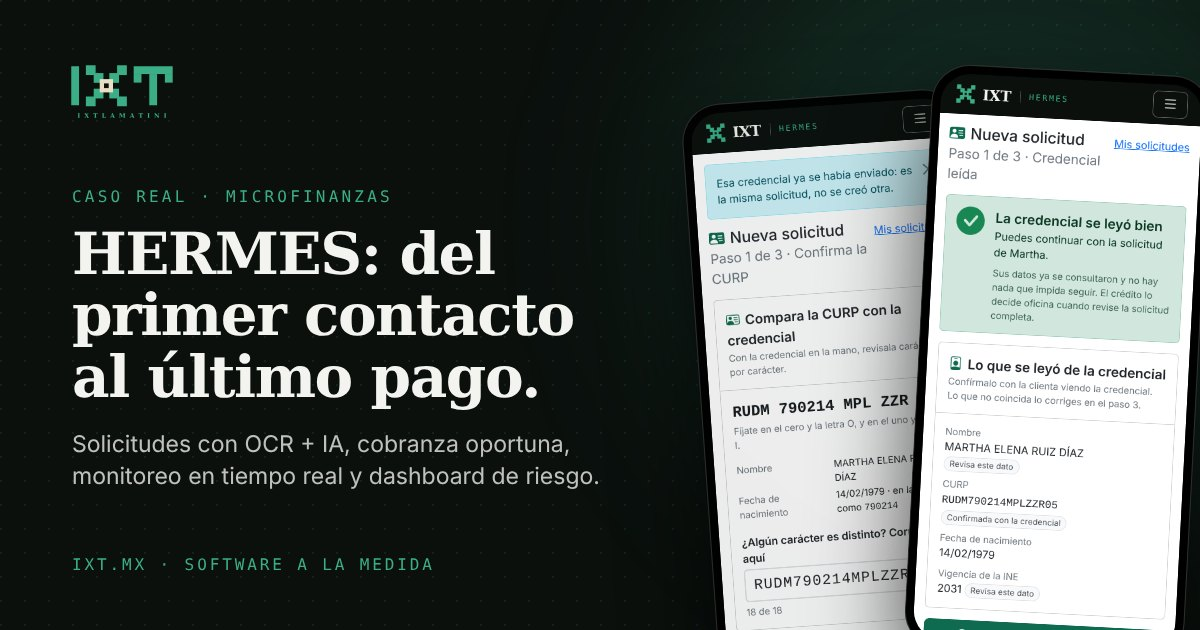
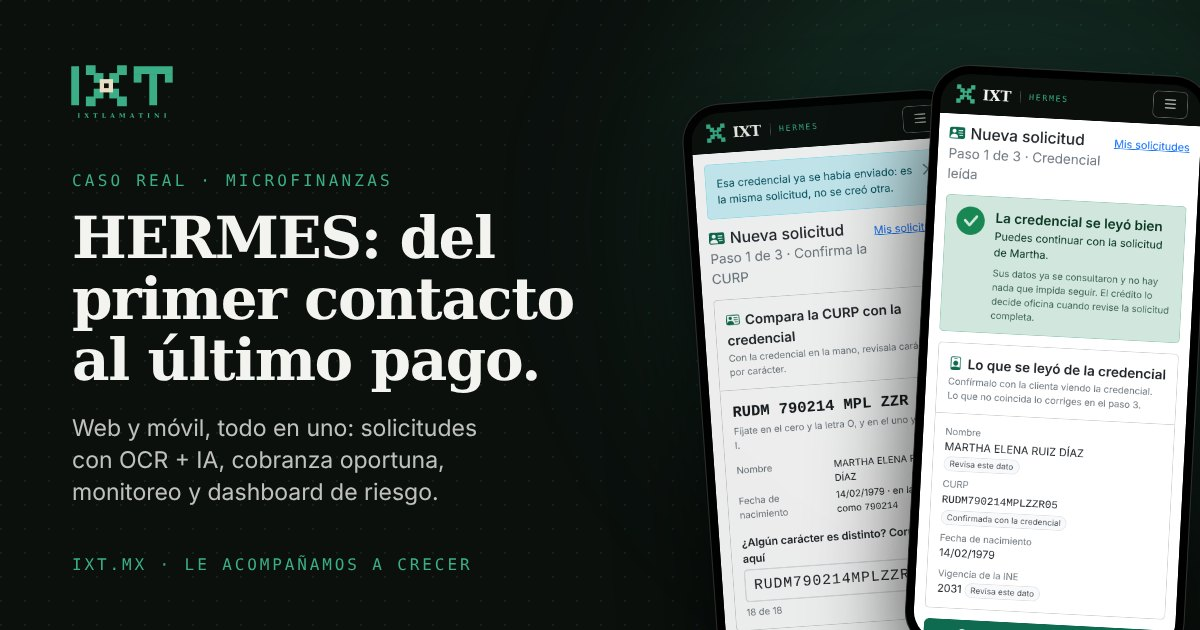
feat: warm "Nosotros" with the meaning of our name, no consultancy
- Home share preview redesigned in warm tones: the meaning of the name
  (Ixtlamatini, "el que sabe con los ojos") first, then values and
  then what we do; default title and description no longer say
  "consultoría" and stress that we accompany clients, never leave them
- New "Nosotros" section right after the hero: the name explained
  (ixtli + tlamatini) and our values; goals move to the end; menu and
  footer start with "Nosotros"
- HERMES and our software described as multiplatform: web and mobile,
  all in one (case hero, ficha, modules, home teaser, Tecnológica and
  the case share preview)

Claude-Session: https://claude.ai/code/session_0144WhNz7j2rH3AaMeMhB6Be

Changed region(s): [[0.0617, 0.2714, 0.4933, 0.8143], [0.1542, 0.8746, 0.4008, 0.9048], [0.4008, 0.3317, 0.4317, 0.3619]]

diff --git a/mockups/og/inicio.html b/mockups/og/inicio.html
@@ -19,116 +19,134 @@
       body {
         margin: 0;
       }
+      /* Tonos cálidos de la marca: hueso que se calienta hacia cal, con la trama de puntos en jade. */
       body {
         width: 1200px;
         height: 630px;
         overflow: hidden;
         position: relative;
-        background-color: #0b100d;
-        background-image: radial-gradient(circle at 1px 1px, rgba(59, 174, 136, 0.12) 1px, transparent 0);
-        background-size: 24px 24px;
+        background-color: #f3f4ef;
+        background-image: radial-gradient(circle at 1px 1px, rgba(15, 107, 79, 0.1) 1px, transparent 0),
+          linear-gradient(120deg, #f3f4ef 0%, #f1ecdf 55%, #eadfc4 100%);
+        background-size: 24px 24px, auto;
         font-family: 'Inter Variable', sans-serif;
+        color: #0b100d;
       }
       .brillo {
         position: absolute;
-        right: -120px;
-        top: -100px;
-        width: 640px;
-        height: 640px;
+        right: 40px;
+        top: 70px;
+        width: 480px;
+        height: 480px;
         border-radius: 50%;
-        background: rgba(59, 174, 136, 0.16);
-        filter: blur(90px);
+        background: rgba(234, 223, 196, 0.95);
+        filter: blur(60px);
       }
       .texto {
         position: absolute;
         left: 72px;
-        top: 60px;
-        bottom: 56px;
-        width: 570px;
+        top: 54px;
+        bottom: 50px;
+        width: 690px;
         display: flex;
         flex-direction: column;
         justify-content: space-between;
       }
       .logo svg {
         display: block;
-        height: 64px;
+        height: 58px;
         width: auto;
-        margin-left: -7px;
+        margin-left: -6px;
       }
       .eyebrow {
         font-family: 'DejaVu Sans Mono', monospace;
         font-size: 16px;
         letter-spacing: 0.2em;
         text-transform: uppercase;
-        color: #3bae88;
-        margin: 0 0 18px;
+        color: #0f6b4f;
+        margin: 0 0 14px;
       }
       h1 {
         font-family: 'DejaVu Serif', serif;
         font-weight: 700;
-        font-size: 58px;
-        line-height: 1.06;
+        font-size: 62px;
+        line-height: 1.04;
         letter-spacing: -0.025em;
-        color: #f3f4ef;
         margin: 0;
+        text-wrap: balance;
       }
       .sub {
-        font-size: 23px;
+        font-size: 24px;
         line-height: 1.4;
-        color: rgba(243, 244, 239, 0.78);
-        margin: 20px 0 0;
+        color: rgba(11, 16, 13, 0.78);
+        margin: 18px 0 0;
+        text-wrap: balance;
+      }
+      .valores {
+        display: flex;
+        flex-wrap: wrap;
+        gap: 8px;
+        margin: 0;
+        padding: 0;
+        list-style: none;
+      }
+      .valores li {
+        font-size: 16px;
+        font-weight: 600;
+        color: #0f6b4f;
+        background: rgba(255, 255, 255, 0.7);
+        border: 1px solid rgba(15, 107, 79, 0.25);
+        border-radius: 999px;
+        padding: 6px 14px;
+      }
+      .hacemos {
+        font-size: 21px;
+        line-height: 1.4;
+        font-weight: 600;
+        margin: 16px 0 0;
+        text-wrap: balance;
       }
       .pie {
         font-family: 'DejaVu Sans Mono', monospace;
-        font-size: 16px;
+        font-size: 15px;
         letter-spacing: 0.18em;
         text-transform: uppercase;
-        color: #3bae88;
+        color: #0f6b4f;
       }
-    </style>
-    <style>
-      .ventana {
+      .marca {
         position: absolute;
-        left: 690px;
-        top: 112px;
-        width: 780px;
-        border-radius: 14px;
-        overflow: hidden;
-        border: 1px solid rgba(255, 255, 255, 0.12);
-        background: #141916;
-        box-shadow: 0 40px 90px rgba(0, 0, 0, 0.65);
-      }
-      .barra {
-        height: 34px;
-        display: flex;
-        align-items: center;
-        gap: 7px;
-        padding: 0 14px;
-        border-bottom: 1px solid rgba(255, 255, 255, 0.1);
-      }
-      .barra span {
-        width: 10px;
-        height: 10px;
-        border-radius: 50%;
-        background: rgba(255, 255, 255, 0.16);
-      }
-      .ventana img {
-        display: block;
-        width: 100%;
+        right: 100px;
+        top: 165px;
+        width: 280px;
+        height: 280px;
       }
     </style>
   </head>
   <body>
     <div class="brillo"></div>
-    <div class="ventana">
-      <div class="barra"><span></span><span></span><span></span></div>
-      <img src="../../src/assets/hermes/dashboard.png" alt="" />
-    </div>
+    <!-- Ícono de IXT: el cuadro del centro es el ojo de ixtli. -->
+    <svg class="marca" xmlns="http://www.w3.org/2000/svg" viewBox="32.5 -7.5 115 115" aria-hidden="true">
+      <g fill="#0F6B4F">
+        <path d="M37.5-2.5h25v25h-25zM117.5-2.5h25v25h-25zM57.5 17.5h25v25h-25zM97.5 17.5h25v25h-25zM57.5 57.5h25v25h-25zM97.5 57.5h25v25h-25zM37.5 77.5h25v25h-25zM117.5 77.5h25v25h-25z" />
+      </g>
+      <rect x="73" y="33" width="34" height="34" fill="#0B100D" />
+      <rect x="84" y="44" width="12" height="12" fill="#EADFC4" />
+    </svg>
     <div class="texto">
-      <div class="logo"><svg xmlns="http://www.w3.org/2000/svg" viewBox="-16 -16 292 164" width="292" height="164"><g fill="#3BAE88"><rect x="0" y="0" width="20" height="100"/><rect x="37.5" y="-2.5" width="25" height="25"/><rect x="117.5" y="-2.5" width="25" height="25"/><rect x="57.5" y="17.5" width="25" height="25"/><rect x="97.5" y="17.5" width="25" height="25"/><rect x="57.5" y="57.5" width="25" height="25"/><rect x="97.5" y="57.5" width="25" height="25"/><rect x="37.5" y="77.5" width="25" height="25"/><rect x="117.5" y="77.5" width="25" height="25"/><rect x="160" y="0" width="100" height="20"/><rect x="160" y="20" width="20" height="22"/><rect x="240" y="20" width="20" height="22"/><rect x="200" y="20" width="20" height="80"/></g><rect x="73" y="33" width="34" height="34" fill="#EADFC4"/><rect x="84" y="44" width="12" height="12" fill="#0B100D"/><g fill="#3BAE88"><path transform="translate(15.672 132.000) scale(0.007754 -0.007754)" d="M96 0V121H287V1372H96V1493H864V1372H672V121H864V0Z"/><path transform="translate(33.350 132.000) scale(0.007754 -0.007754)" d="M694 575 383 121H567V0H37V121H221L614 692L147 1372H10V1493H752V1372H588L877 952L1163 1372H989V1493H1509V1372H1325L956 836L1446 121H1587V0H842V121H1008Z"/><path transform="translate(55.921 132.000) scale(0.007754 -0.007754)" d="M371 0V121H569V1356H160V1120H23V1493H1503V1120H1368V1356H956V121H1155V0Z"/><path transform="translate(77.988 132.000) scale(0.007754 -0.007754)" d="M96 0V121H287V1372H96V1493H864V1372H672V137H1260V373H1395V0Z"/><path transform="translate(99.404 132.000) scale(0.007754 -0.007754)" d="M-16 0V121H106L668 1493H907L1470 121H1612V0H913V121H1059L936 426H375L250 121H428V0ZM424 547H887L657 1118Z"/><path transform="translate(121.975 132.000) scale(0.007754 -0.007754)" d="M86 0V121H276V1372H86V1493H702L1128 535L1556 1493H2171V1372H1980V121H2171V0H1403V121H1593V1260L1130 219H877L416 1260V121H606V0Z"/><path transform="translate(149.803 132.000) scale(0.007754 -0.007754)" d="M-16 0V121H106L668 1493H907L1470 121H1612V0H913V121H1059L936 426H375L250 121H428V0ZM424 547H887L657 1118Z"/><path transform="translate(172.374 132.000) scale(0.007754 -0.007754)" d="M371 0V121H569V1356H160V1120H23V1493H1503V1120H1368V1356H956V121H1155V0Z"/><path transform="translate(194.441 132.000) scale(0.007754 -0.007754)" d="M96 0V121H287V1372H96V1493H864V1372H672V121H864V0Z"/><path transform="translate(212.119 132.000) scale(0.007754 -0.007754)" d="M90 0V121H281V1372H90V1493H557L1458 436V1372H1268V1493H1790V1372H1599V0H1337L422 1079V121H612V0Z"/><path transform="translate(236.884 132.000) scale(0.007754 -0.007754)" d="M96 0V121H287V1372H96V1493H864V1372H672V121H864V0Z"/></g></svg></div>
+      <div class="logo"><svg xmlns="http://www.w3.org/2000/svg" viewBox="-16 -16 292 164" role="img" aria-label="IXT · Ixtlamatini"><g fill="#0F6B4F"><rect x="0" y="0" width="20" height="100"/><rect x="37.5" y="-2.5" width="25" height="25"/><rect x="117.5" y="-2.5" width="25" height="25"/><rect x="57.5" y="17.5" width="25" height="25"/><rect x="97.5" y="17.5" width="25" height="25"/><rect x="57.5" y="57.5" width="25" height="25"/><rect x="97.5" y="57.5" width="25" height="25"/><rect x="37.5" y="77.5" width="25" height="25"/><rect x="117.5" y="77.5" width="25" height="25"/><rect x="160" y="0" width="100" height="20"/><rect x="160" y="20" width="20" height="22"/><rect x="240" y="20" width="20" height="22"/><rect x="200" y="20" width="20" height="80"/></g><rect x="73" y="33" width="34" height="34" fill="#0B100D"/><rect x="84" y="44" width="12" height="12" fill="#F3F4EF"/><g fill="#0F6B4F"><path transform="translate(15.672 132.000) scale(0.007754 -0.007754)" d="M96 0V121H287V1372H96V1493H864V1372H672V121H864V0Z"/><path transform="translate(33.350 132.000) scale(0.007754 -0.007754)" d="M694 575 383 121H567V0H37V121H221L614 692L147 1372H10V1493H752V1372H588L877 952L1163 1372H989V1493H1509V1372H1325L956 836L1446 121H1587V0H842V121H1008Z"/><path transform="translate(55.921 132.000) scale(0.007754 -0.007754)" d="M371 0V121H569V1356H160V1120H23V1493H1503V1120H1368V1356H956V121H1155V0Z"/><path transform="translate(77.988 132.000) scale(0.007754 -0.007754)" d="M96 0V121H287V1372H96V1493H864V1372H672V137H1260V373H1395V0Z"/><path transform="translate(99.404 132.000) scale(0.007754 -0.007754)" d="M-16 0V121H106L668 1493H907L1470 121H1612V0H913V121H1059L936 426H375L250 121H428V0ZM424 547H887L657 1118Z"/><path transform="translate(121.975 132.000) scale(0.007754 -0.007754)" d="M86 0V121H276V1372H86V1493H702L1128 535L1556 1493H2171V1372H1980V121H2171V0H1403V121H1593V1260L1130 219H877L416 1260V121H606V0Z"/><path transform="translate(149.803 132.000) scale(0.007754 -0.007754)" d="M-16 0V121H106L668 1493H907L1470 121H1612V0H913V121H1059L936 426H375L250 121H428V0ZM424 547H887L657 1118Z"/><path transform="translate(172.374 132.000) scale(0.007754 -0.007754)" d="M371 0V121H569V1356H160V1120H23V1493H1503V1120H1368V1356H956V121H1155V0Z"/><path transform="translate(194.441 132.000) scale(0.007754 -0.007754)" d="M96 0V121H287V1372H96V1493H864V1372H672V121H864V0Z"/><path transform="translate(212.119 132.000) scale(0.007754 -0.007754)" d="M90 0V121H281V1372H90V1493H557L1458 436V1372H1268V1493H1790V1372H1599V0H1337L422 1079V121H612V0Z"/><path transform="translate(236.884 132.000) scale(0.007754 -0.007754)" d="M96 0V121H287V1372H96V1493H864V1372H672V121H864V0Z"/></g></svg></div>
       <div>
-        <h1>Software que nace de entender sus números.</h1>
-        <p class="sub">Consultoría financiera, software a la medida y acompañamiento de principio a fin.</p>
+        <p class="eyebrow">Ixtlamatini · en náhuatl</p>
+        <h1>El que sabe con los ojos.</h1>
+        <p class="sub">Conocemos su negocio porque lo vemos con usted, y nos quedamos a su lado mientras crece.</p>
+      </div>
+      <div>
+        <ul class="valores">
+          <li>Confidencialidad</li>
+          <li>Honestidad</li>
+          <li>Transparencia</li>
+          <li>Crecer juntos</li>
+        </ul>
+        <p class="hacemos">Le acompañamos: números claros y sistemas web y móvil, todo en uno.</p>
       </div>
       <div class="pie">ixt.mx · Saber ver para crecer juntos</div>
     </div>

diff --git a/mockups/og/caso.html b/mockups/og/caso.html
@@ -77,6 +77,7 @@
         line-height: 1.4;
         color: rgba(243, 244, 239, 0.78);
         margin: 20px 0 0;
+        text-wrap: balance;
       }
       .pie {
         font-family: 'DejaVu Sans Mono', monospace;
@@ -123,9 +124,9 @@
       <div>
         <p class="eyebrow">Caso real · Microfinanzas</p>
         <h1>HERMES: del primer contacto al último pago.</h1>
-        <p class="sub">Solicitudes con OCR + IA, cobranza oportuna, monitoreo en tiempo real y dashboard de riesgo.</p>
+        <p class="sub">Web y móvil, todo en uno: solicitudes con OCR + IA, cobranza oportuna, monitoreo y dashboard de riesgo.</p>
       </div>
-      <div class="pie">ixt.mx · Software a la medida</div>
+      <div class="pie">ixt.mx · Le acompañamos a crecer</div>
     </div>
   </body>
 </html>
